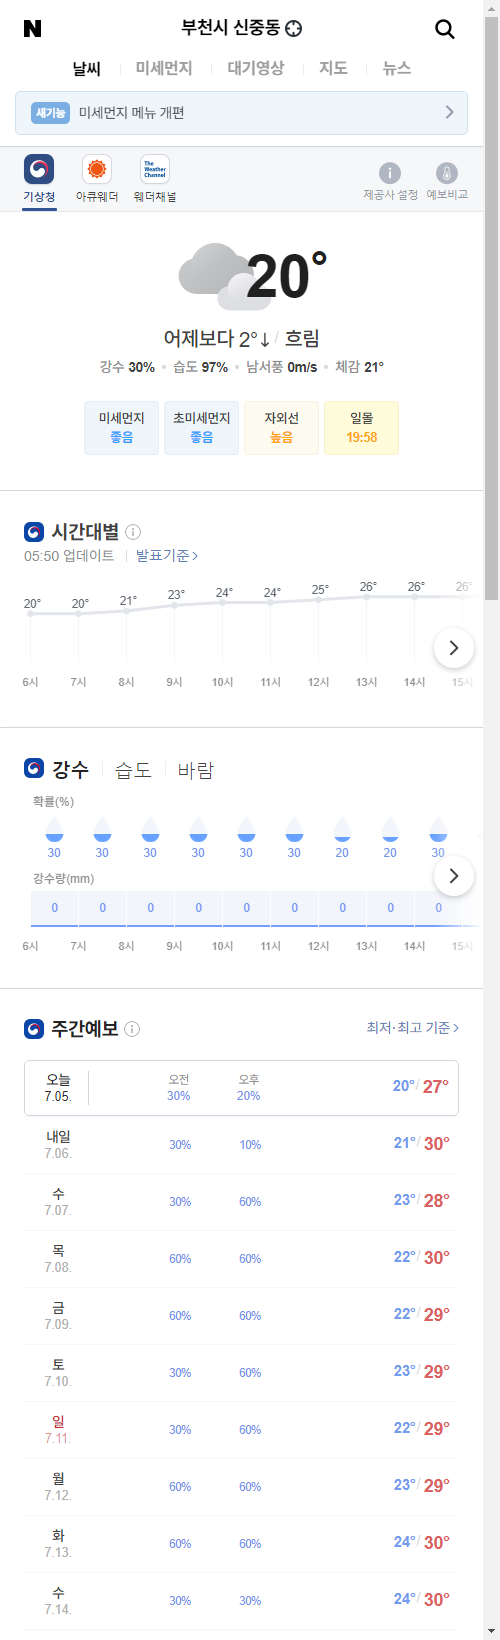
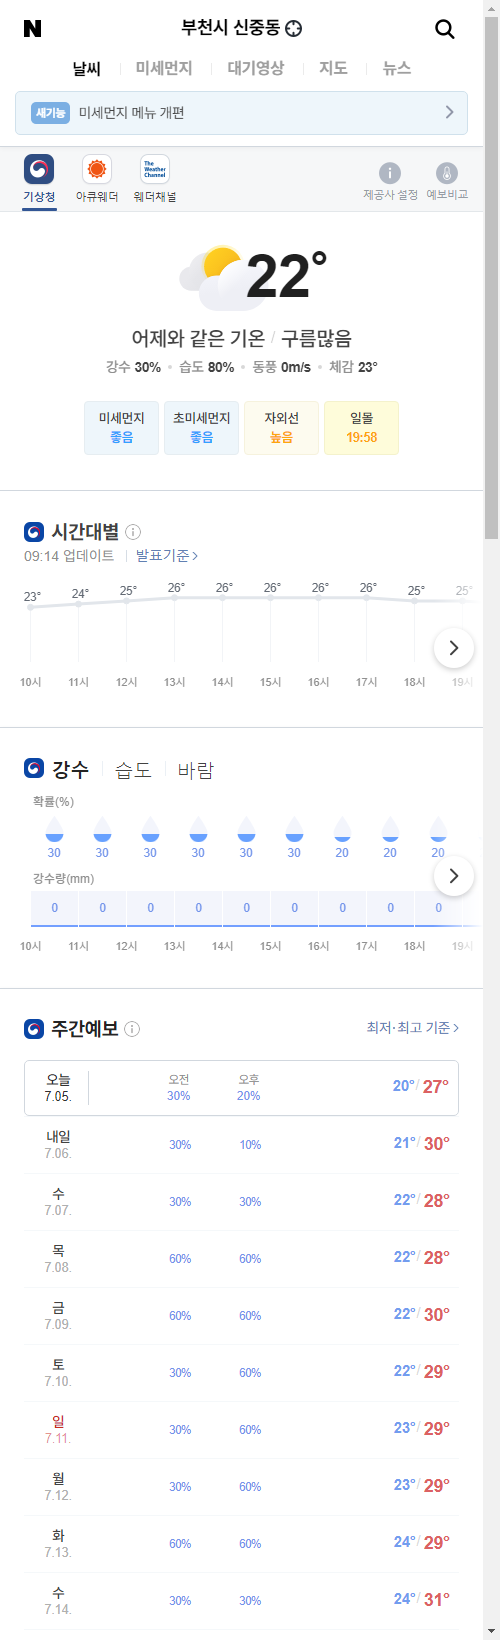
update result

diff --git a/README.md b/README.md
@@ -1,5 +1,5 @@
-##  2021-07-05 05:55:06   월요일 
-##### 날씨   -   어제보다 2° 낮아요흐림  
+##  2021-07-05 09:17:17   월요일 
+##### 날씨   -   어제와 같은 기온구름많음  
 <center><img src="../img/naver_weather_week.png"></center>
 ----
 ----
@@ -23,7 +23,7 @@
 ##### 시장
 <table border="1" bordercolor="blue" align = "center" >
 <tr align = "right" > <td>Item</td><td>Price</td><td>Diff</td><td>Rate</td><td>Buy</td><td>Sell</td><td>...</td>  </tr>
-<tr align = "right" > <td>USD</td><td>1,136.0</td><td>3.0</td><td><font size="3" color="red">0.26%</font></td><td><font size="3" color="black">1,110</font></td><td><font size="3" color="black">0</font></td><td>0</td>  </tr>
+<tr align = "right" > <td>USD</td><td>1,131.0</td><td>-4.6</td><td><font size="3" color="blue">-0.4%</font></td><td><font size="3" color="black">1,110</font></td><td><font size="3" color="black">0</font></td><td>0</td>  </tr>
 <tr align = "right" > <td>WTI</td><td>75.16</td><td>-0.07</td><td><font size="3" color="blue">-0.09%</font></td><td><font size="3" color="black">29.0</font></td><td><font size="3" color="black">0</font></td><td>0</td>  </tr>
 <tr align = "right" > <td>GOLD</td><td>1,782.0</td><td>6.7</td><td><font size="3" color="red">0.37%</font></td><td><font size="3" color="black">0</font></td><td><font size="3" color="black">0</font></td><td>0</td>  </tr>
 </table>
@@ -31,26 +31,26 @@
 ##### 주가
 <table border="1" bordercolor="blue" align = "center" >
 <tr align = "right" > <td>Item</td><td>Price</td><td>Diff</td><td>Rate</td><td>Purchased</td><td>Sell</td><td>Buy</td>  </tr>
-<tr align = "right" > <td>한국 전력</td><td>24,700</td><td>100</td><td><font size="3" color="red">0.41%</font></td><td>25,720</td><td><font size="3" color="black">27,700</font></td><td><font size="3" color="black">20,700</font></td>  </tr>
-<tr align = "right" > <td>삼성엔지니어.</td><td>24,350</td><td>400</td><td><font size="3" color="red">1.67%</font></td><td>18,935</td><td><font size="3" color="black">20,000</font></td><td><font size="3" color="black">8,000</font></td>  </tr>
-<tr align = "right" > <td>CJ CGV</td><td>29,900</td><td>-300</td><td><font size="3" color="blue">-0.99%</font></td><td>34,895</td><td><font size="3" color="black">36,000</font></td><td><font size="3" color="black">0</font></td>  </tr>
-<tr align = "right" > <td>아모레퍼시픽</td><td>249,500</td><td>1,500</td><td><font size="3" color="red">0.6%</font></td><td>235,350</td><td><font size="3" color="black">240,000</font></td><td><font size="3" color="black">130,000</font></td>  </tr>
-<tr align = "right" > <td>한화</td><td>31,350</td><td>-50</td><td><font size="3" color="blue">-0.16%</font></td><td>25,550</td><td><font size="3" color="black">26,250</font></td><td><font size="3" color="black">26,250</font></td>  </tr>
-<tr align = "right" > <td>NAVER</td><td>414,000</td><td>1,000</td><td><font size="3" color="red">0.24%</font></td><td>147,200</td><td><font size="3" color="black">386,000</font></td><td><font size="3" color="black">286,000</font></td>  </tr>
-<tr align = "right" > <td>LG 화학우</td><td>381,000</td><td>-4,500</td><td><font size="3" color="blue">-1.17%</font></td><td>202,490</td><td><font size="3" color="black">384,000</font></td><td><font size="3" color="orangered">384,000</font></td>  </tr>
-<tr align = "right" > <td>스튜디오드래.</td><td>95,500</td><td>-1,000</td><td><font size="3" color="blue">-1.04%</font></td><td>81,243</td><td><font size="3" color="black">85,200</font></td><td><font size="3" color="black">85,200</font></td>  </tr>
-<tr align = "right" > <td>QV미국IT</td><td>30,200</td><td>80</td><td><font size="3" color="red">0.27%</font></td><td>0</td><td><font size="3" color="black">30,000</font></td><td><font size="3" color="black">20,000</font></td>  </tr>
-<tr align = "right" > <td>삼성 전자우</td><td>73,100</td><td>-300</td><td><font size="3" color="blue">-0.41%</font></td><td>48,250</td><td><font size="3" color="black">56,000</font></td><td><font size="3" color="black">45,000</font></td>  </tr>
-<tr align = "right" > <td>LS</td><td>72,000</td><td>900</td><td><font size="3" color="red">1.27%</font></td><td>71,900</td><td><font size="3" color="black">82,000</font></td><td><font size="3" color="black">60,000</font></td>  </tr>
-<tr align = "right" > <td>한화에어로스.</td><td>48,450</td><td>1,300</td><td><font size="3" color="red">2.76%</font></td><td>25,700</td><td><font size="3" color="black">30,000</font></td><td><font size="3" color="black">24,000</font></td>  </tr>
-<tr align = "right" > <td>카카오</td><td>159,500</td><td>-500</td><td><font size="3" color="blue">-0.31%</font></td><td>405,500</td><td><font size="3" color="black">440,000</font></td><td><font size="3" color="orangered">400,000</font></td>  </tr>
-<tr align = "right" > <td>호텔 신라</td><td>96,000</td><td>100</td><td><font size="3" color="red">0.1%</font></td><td>72,800</td><td><font size="3" color="black">100,000</font></td><td><font size="3" color="black">70,000</font></td>  </tr>
-<tr align = "right" > <td>S-Oil</td><td>105,500</td><td>4,500</td><td><font size="3" color="red">4.46%</font></td><td>62,842</td><td><font size="3" color="black">100,000</font></td><td><font size="3" color="black">50,000</font></td>  </tr>
-<tr align = "right" > <td>LG전자</td><td>163,500</td><td>1,500</td><td><font size="3" color="red">0.93%</font></td><td>82,022</td><td><font size="3" color="black">100,000</font></td><td><font size="3" color="black">60,000</font></td>  </tr>
-<tr align = "right" > <td>KT&G</td><td>84,500</td><td>0</td><td><font size="3" color="black">0.0%</font></td><td>80,400</td><td><font size="3" color="black">100,000</font></td><td><font size="3" color="black">70,000</font></td>  </tr>
-<tr align = "right" > <td>지역난방공사</td><td>43,750</td><td>150</td><td><font size="3" color="red">0.34%</font></td><td>43,590</td><td><font size="3" color="black">60,000</font></td><td><font size="3" color="black">30,000</font></td>  </tr>
-<tr align = "right" > <td>KOEDX은행</td><td>7,600</td><td>15</td><td><font size="3" color="red">0.2%</font></td><td>5,178</td><td><font size="3" color="black">6,225</font></td><td><font size="3" color="black">6,225</font></td>  </tr>
-<tr align = "right" > <td>글로벌럭셔리</td><td>18,250</td><td>90</td><td><font size="3" color="red">0.5%</font></td><td>15,260</td><td><font size="3" color="black">20,000</font></td><td><font size="3" color="black">10,000</font></td>  </tr>
-<tr align = "right" > <td>한국금융지주</td><td>100,000</td><td>-1,000</td><td><font size="3" color="blue">-0.99%</font></td><td>0</td><td><font size="3" color="black">82,000</font></td><td><font size="3" color="black">60,000</font></td>  </tr>
+<tr align = "right" > <td>한국 전력</td><td>24,700</td><td>0</td><td><font size="3" color="black">0.0%</font></td><td>25,720</td><td><font size="3" color="black">27,700</font></td><td><font size="3" color="black">20,700</font></td>  </tr>
+<tr align = "right" > <td>삼성엔지니어.</td><td>24,100</td><td>-250</td><td><font size="3" color="blue">-1.03%</font></td><td>18,935</td><td><font size="3" color="black">20,000</font></td><td><font size="3" color="black">8,000</font></td>  </tr>
+<tr align = "right" > <td>CJ CGV</td><td>29,800</td><td>-100</td><td><font size="3" color="blue">-0.33%</font></td><td>34,895</td><td><font size="3" color="black">36,000</font></td><td><font size="3" color="black">0</font></td>  </tr>
+<tr align = "right" > <td>아모레퍼시픽</td><td>248,500</td><td>-1,000</td><td><font size="3" color="blue">-0.4%</font></td><td>235,350</td><td><font size="3" color="black">240,000</font></td><td><font size="3" color="black">130,000</font></td>  </tr>
+<tr align = "right" > <td>한화</td><td>31,450</td><td>100</td><td><font size="3" color="red">0.32%</font></td><td>25,550</td><td><font size="3" color="black">26,250</font></td><td><font size="3" color="black">26,250</font></td>  </tr>
+<tr align = "right" > <td>NAVER</td><td>414,500</td><td>500</td><td><font size="3" color="red">0.12%</font></td><td>147,200</td><td><font size="3" color="black">386,000</font></td><td><font size="3" color="black">286,000</font></td>  </tr>
+<tr align = "right" > <td>LG 화학우</td><td>382,000</td><td>1,000</td><td><font size="3" color="red">0.26%</font></td><td>202,490</td><td><font size="3" color="black">384,000</font></td><td><font size="3" color="orangered">384,000</font></td>  </tr>
+<tr align = "right" > <td>스튜디오드래.</td><td>95,800</td><td>300</td><td><font size="3" color="red">0.31%</font></td><td>81,243</td><td><font size="3" color="black">85,200</font></td><td><font size="3" color="black">85,200</font></td>  </tr>
+<tr align = "right" > <td>QV미국IT</td><td>30,805</td><td>605</td><td><font size="3" color="red">2.0%</font></td><td>0</td><td><font size="3" color="black">30,000</font></td><td><font size="3" color="black">20,000</font></td>  </tr>
+<tr align = "right" > <td>삼성 전자우</td><td>73,400</td><td>300</td><td><font size="3" color="red">0.41%</font></td><td>48,250</td><td><font size="3" color="black">56,000</font></td><td><font size="3" color="black">45,000</font></td>  </tr>
+<tr align = "right" > <td>LS</td><td>71,800</td><td>-200</td><td><font size="3" color="blue">-0.28%</font></td><td>71,900</td><td><font size="3" color="black">82,000</font></td><td><font size="3" color="black">60,000</font></td>  </tr>
+<tr align = "right" > <td>한화에어로스.</td><td>50,200</td><td>1,750</td><td><font size="3" color="red">3.61%</font></td><td>25,700</td><td><font size="3" color="black">30,000</font></td><td><font size="3" color="black">24,000</font></td>  </tr>
+<tr align = "right" > <td>카카오</td><td>160,500</td><td>1,000</td><td><font size="3" color="red">0.63%</font></td><td>405,500</td><td><font size="3" color="black">440,000</font></td><td><font size="3" color="orangered">400,000</font></td>  </tr>
+<tr align = "right" > <td>호텔 신라</td><td>95,700</td><td>-300</td><td><font size="3" color="blue">-0.31%</font></td><td>72,800</td><td><font size="3" color="black">100,000</font></td><td><font size="3" color="black">70,000</font></td>  </tr>
+<tr align = "right" > <td>S-Oil</td><td>106,000</td><td>500</td><td><font size="3" color="red">0.47%</font></td><td>62,842</td><td><font size="3" color="black">100,000</font></td><td><font size="3" color="black">50,000</font></td>  </tr>
+<tr align = "right" > <td>LG전자</td><td>164,000</td><td>500</td><td><font size="3" color="red">0.31%</font></td><td>82,022</td><td><font size="3" color="black">100,000</font></td><td><font size="3" color="black">60,000</font></td>  </tr>
+<tr align = "right" > <td>KT&G</td><td>84,400</td><td>-100</td><td><font size="3" color="blue">-0.12%</font></td><td>80,400</td><td><font size="3" color="black">100,000</font></td><td><font size="3" color="black">70,000</font></td>  </tr>
+<tr align = "right" > <td>지역난방공사</td><td>43,800</td><td>50</td><td><font size="3" color="red">0.11%</font></td><td>43,590</td><td><font size="3" color="black">60,000</font></td><td><font size="3" color="black">30,000</font></td>  </tr>
+<tr align = "right" > <td>KOEDX은행</td><td>7,545</td><td>-55</td><td><font size="3" color="blue">-0.72%</font></td><td>5,178</td><td><font size="3" color="black">6,225</font></td><td><font size="3" color="black">6,225</font></td>  </tr>
+<tr align = "right" > <td>글로벌럭셔리</td><td>18,175</td><td>-75</td><td><font size="3" color="blue">-0.41%</font></td><td>15,260</td><td><font size="3" color="black">20,000</font></td><td><font size="3" color="black">10,000</font></td>  </tr>
+<tr align = "right" > <td>한국금융지주</td><td>98,600</td><td>-1,400</td><td><font size="3" color="blue">-1.4%</font></td><td>0</td><td><font size="3" color="black">82,000</font></td><td><font size="3" color="black">60,000</font></td>  </tr>
 </table>
 ----
